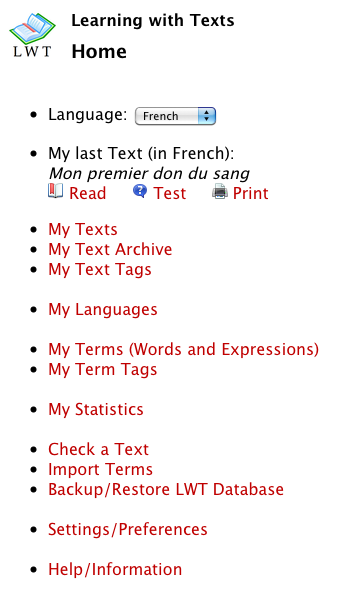
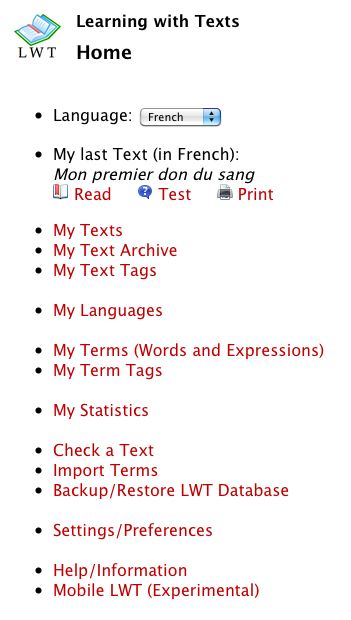
Version 1.4.0 PUBLISHED

diff --git a/info.htm b/info.htm
@@ -197,7 +197,7 @@ $(document).ready( function() {
 
       <dd>
         <ul>
-          <li>The current version is <b>1.4.0 (September ?? 2011)</b>.
+          <li>The current version is <b>1.4.0 (September 09 2011)</b>.
           </li>
 
           <li>
@@ -2042,8 +2042,8 @@ with audioplayer", if needed.</li>
       <dd>
         <ul>
 
-        	<li>1.4.0 (September ?? 2011):
-        	Mobile Version (experimental, URI:.../mobile.php): Selection of Language, Text, and Sentence, Playing the audio (if exists), Reading the text either sentence-by-sentence or term-by-term (saved words shown with translation, romanization, and status (via color). In this version this mobile interface does not allow data manipulations.<br />
+        	<li>1.4.0 (September 09 2011):
+        	Mobile Version (experimental, via mobile.php): Selection of Language, Text, and Sentence, Playing the audio (if exists), Reading the text either sentence-by-sentence or term-by-term (saved words shown with translation, romanization, and status (via color). This mobile interface does not yet allow data manipulations.<br />
         	Texts, archived texts and terms can now also be filtered by "untagged".<br />
         	Added a "Repeat Audio / Single Play" toggle button for media player.
         	<br /><br />

diff --git a/utilities.inc.php b/utilities.inc.php
@@ -19,7 +19,7 @@ Plus (at end): Database Connect, .. Select, .. Update
 
 function get_version() {
 	global $debug;
-	return '1.4.0 (September ?? 2011)'  . 
+	return '1.4.0 (September 09 2011)'  . 
 	($debug ? ' <span class="red">DEBUG</span>' : '');
 }
 
